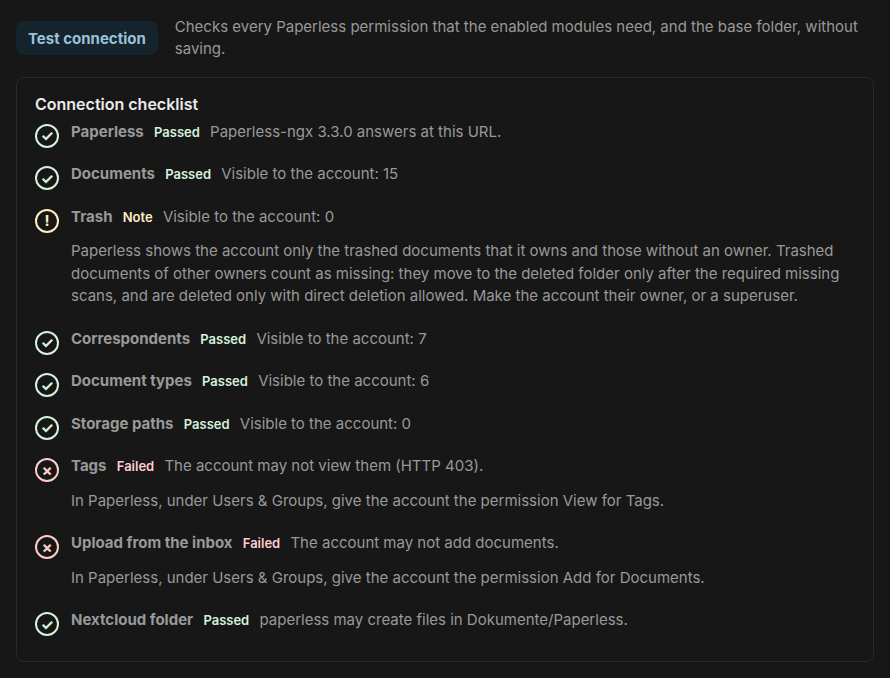
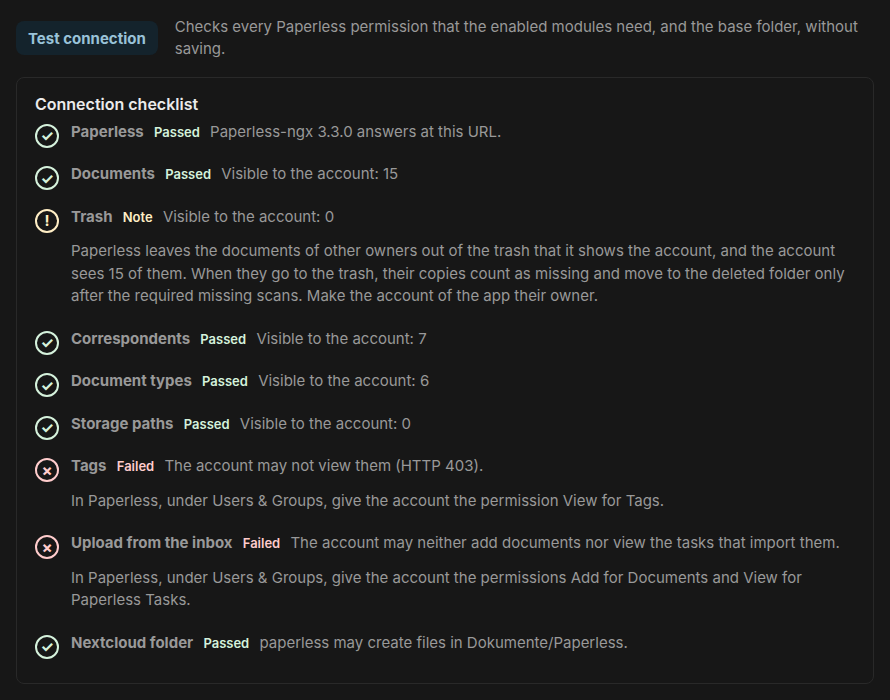
docs: regenerate the connection checklist screenshots
The account of the mock now lacks three permissions, and the trash line
counts the document of another owner.

diff --git a/README.md b/README.md
@@ -276,7 +276,7 @@ The API token is stored in Nextcloud's credentials manager and never returned to
 
 <!-- --8<-- [end:configuration] -->
 
-<!-- The picture comes from tests/e2e/screenshots.mjs, with the token of an account of the mock that lacks two permissions. -->
+<!-- The picture comes from tests/e2e/screenshots.mjs, with the token of an account of the mock that lacks three permissions. -->
 <picture>
   <source media="(prefers-color-scheme: dark)" srcset="docs/images/settings-checklist-dark.png">
   <img alt="The connection checklist after Test connection: Paperless-ngx answers, the account sees the documents, correspondents, document types and storage paths, the trash has a note that the account sees a document of another owner, which the trash of Paperless leaves out, and the tags and the upload from the inbox failed, each with the permissions to grant in Paperless" src="docs/images/settings-checklist-light.png">
